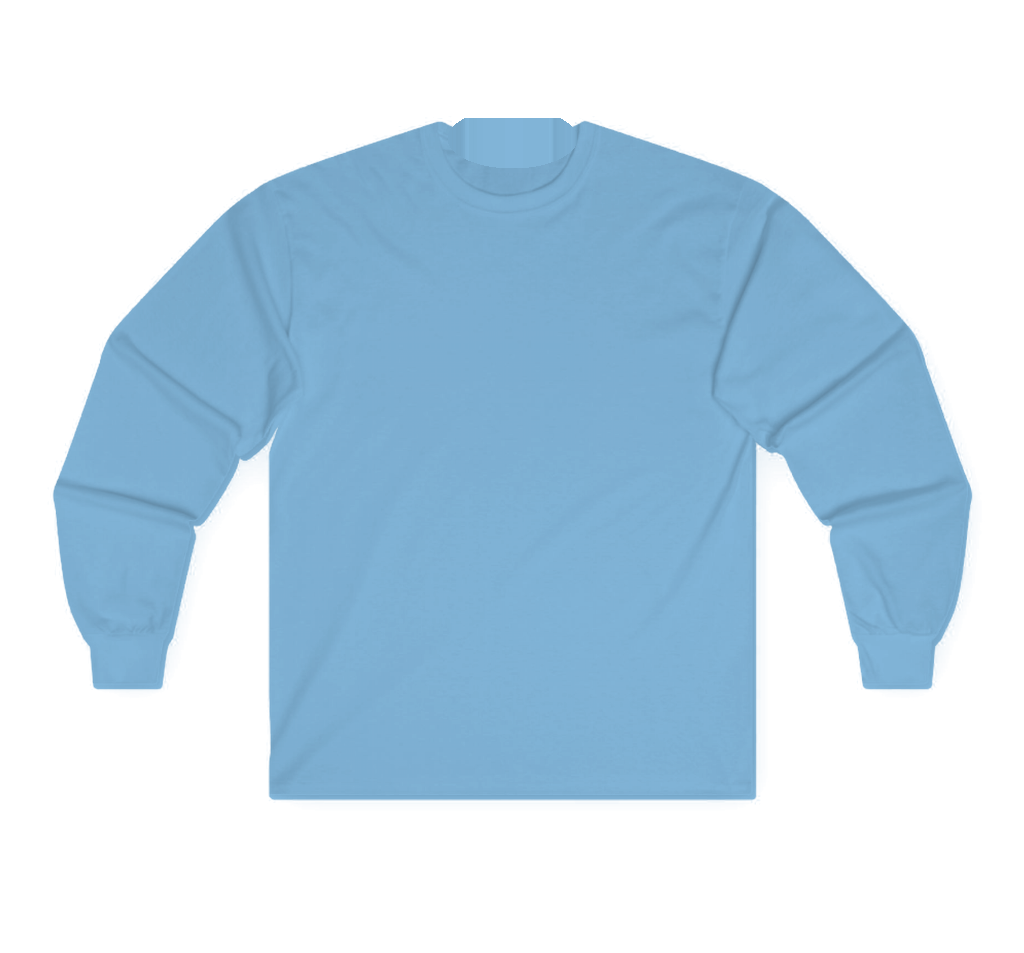
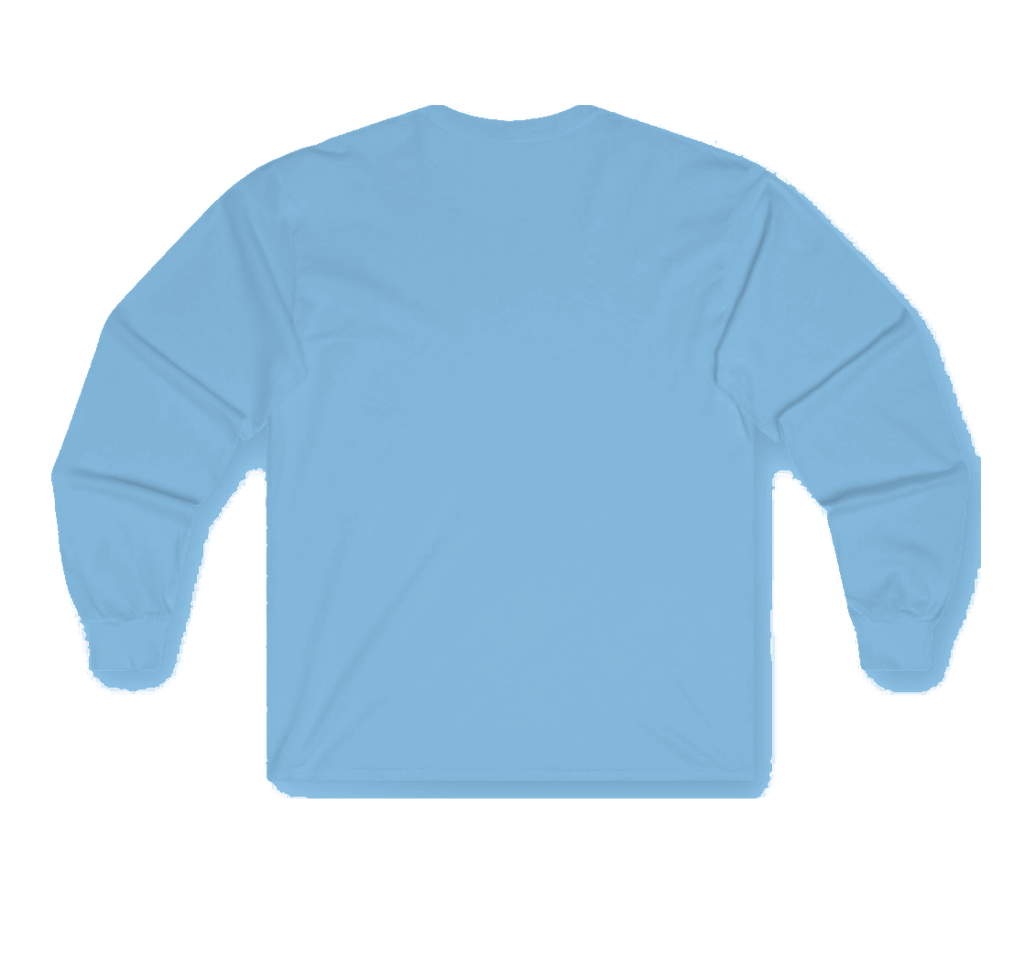
fix(mockups): resolve back collar masking artifact using photographic rear template and vector clipping

diff --git a/src/components/mockups/RealisticFlatLay.tsx b/src/components/mockups/RealisticFlatLay.tsx
@@ -649,6 +649,17 @@ export function RealisticLongSleeveFlatLay({
             <feBlend mode="multiply" in="SourceGraphic" in2="textureGrain" result="blended" />
             <feComposite in="blended" in2="SourceAlpha" operator="in" />
           </filter>
+
+          {/* Garment Body Clipping Mask: strictly bounds artwork within garment boundaries and prevents leaks above collar ribbing */}
+          <clipPath id={`ls-print-clip-${id}`}>
+            <rect
+              x={targetChest.x - 30}
+              y={isBack ? 165 : 175}
+              width={targetChest.width + 60}
+              height={targetChest.height + 70}
+              rx="12"
+            />
+          </clipPath>
         </defs>
 
         {/* Studio Floor Soft Contact Shadows */}
@@ -691,6 +702,7 @@ export function RealisticLongSleeveFlatLay({
         <g
           id="ls-artwork-stage"
           filter={`url(#ls-cotton-weave-${id})`}
+          clipPath={`url(#ls-print-clip-${id})`}
           style={{
             mixBlendMode: 'normal',
             filter: 'contrast(1.02) saturate(1.02)',

diff --git a/scripts/build_full_studio_palette.py b/scripts/build_full_studio_palette.py
@@ -140,29 +140,61 @@ for item in PALETTE:
     cv2.imwrite(out_path, rgba)
     print(f"Saved {out_path}")
 
-# 4. Generate Back Blanks (White Base + Full Studio Palette)
-print("Generating back blanks for full studio palette...")
-white_back_r = np.copy(white[:, :, 2]).astype(np.float32)
-white_back_g = np.copy(white[:, :, 1]).astype(np.float32)
-white_back_b = np.copy(white[:, :, 0]).astype(np.float32)
-white_back_a = np.copy(master_alpha).astype(np.float32)
+# 4. Generate Back Blanks from True Photographic Reference Image
+print("Generating back blanks from authentic photographic back reference...")
+back_source_path = 'scripts/source-longsleeve-back.png'
+if not os.path.exists(back_source_path):
+    back_source_path = 'C:/Users/Davea/.gemini/antigravity/brain/437b513a-73e0-4e4b-92bb-e5583cd97c04/.user_uploaded/media_1791821587066_48ab0d93.png'
 
-# Fill collar opening with rear neckline ribbing
-for y in range(118, 172):
-    for x in range(445, 580):
-        dx = (x - 512) / 65.0
-        dy = (y - 138) / 30.0
-        if dx*dx + dy*dy < 1.0:
-            white_back_r[y, x] = float(white[128, x, 2])
-            white_back_g[y, x] = float(white[128, x, 1])
-            white_back_b[y, x] = float(white[128, x, 0])
-            white_back_a[y, x] = 1.0
+im_back = cv2.imread(back_source_path)
+h_b, w_b = im_back.shape[:2]
 
-# Shading map for back blank
-white_back_gray = (0.299 * white_back_r + 0.587 * white_back_g + 0.114 * white_back_b) / 255.0
-p98_back = np.percentile(white_back_gray[white_back_a > 0.5], 98)
-S_back = np.clip(white_back_gray / p98_back, 0.0, 1.25)
-S_back = np.power(S_back, 1.05)
+# 4.1 Extract mathematically pristine sub-pixel alpha mask from authentic back photograph
+diff_b = np.max(255 - im_back.astype(np.int32), axis=2).astype(np.float32)
+# Smoothstep curve between background edge (diff 3.0) and solid fabric (diff 8.5)
+t_b = np.clip((diff_b - 3.0) / 5.5, 0.0, 1.0)
+alpha_b_raw = t_b * t_b * (3.0 - 2.0 * t_b)
+
+# Solid core for interior fabric
+core_b = (diff_b >= 6.0).astype(np.uint8)
+kernel_b = cv2.getStructuringElement(cv2.MORPH_ELLIPSE, (7, 7))
+core_b_filled = cv2.morphologyEx(core_b, cv2.MORPH_CLOSE, kernel_b)
+contours_b, _ = cv2.findContours(core_b_filled, cv2.RETR_EXTERNAL, cv2.CHAIN_APPROX_SIMPLE)
+solid_b_mask = np.zeros_like(core_b_filled)
+cv2.drawContours(solid_b_mask, contours_b, -1, 1, thickness=cv2.FILLED)
+
+alpha_b_combined = np.where(solid_b_mask > 0, np.maximum(alpha_b_raw, 0.98), alpha_b_raw)
+alpha_b_combined[:35, :] = 0.0
+alpha_b_combined[798:, :] = 0.0
+
+# 4.2 Scale & Align to master 953 x 1024 studio canvas (matching front garment 929px width)
+scale_b = 929.0 / 1014.0
+scaled_w_b = int(round(w_b * scale_b))
+scaled_h_b = int(round(h_b * scale_b))
+
+im_b_scaled = cv2.resize(im_back, (scaled_w_b, scaled_h_b), interpolation=cv2.INTER_LANCZOS4)
+alpha_b_scaled = cv2.resize(alpha_b_combined, (scaled_w_b, scaled_h_b), interpolation=cv2.INTER_LANCZOS4)
+
+master_back_rgb = np.full((h_w, w_w, 3), 255, dtype=np.uint8)
+master_back_alpha = np.zeros((h_w, w_w), dtype=np.float32)
+
+offset_x_b = (w_w - scaled_w_b) // 2
+collar_y_in_scaled = int(round(56.0 * scale_b))
+offset_y_b = 118 - collar_y_in_scaled # Back collar sits naturally flush at y=118
+
+master_back_rgb[offset_y_b:offset_y_b+scaled_h_b, offset_x_b:offset_x_b+scaled_w_b] = im_b_scaled
+master_back_alpha[offset_y_b:offset_y_b+scaled_h_b, offset_x_b:offset_x_b+scaled_w_b] = alpha_b_scaled
+
+master_back_alpha[master_back_alpha < 0.015] = 0.0
+master_back_alpha[:, :35] = 0.0
+master_back_alpha[:, 985:] = 0.0
+master_back_alpha[:105, :] = 0.0
+master_back_alpha[815:, :] = 0.0
+master_back_alpha = cv2.GaussianBlur(master_back_alpha, (3, 3), 0.4)
+
+# 4.3 Authentic Shading Map from Photographic Back View
+white_back_gray = cv2.cvtColor(master_back_rgb, cv2.COLOR_BGR2GRAY).astype(np.float32) / 255.0
+S_back = np.clip(white_back_gray / 0.94, 0.04, 1.20)
 
 for item in PALETTE:
     back_name = item['name'].replace('longsleeve-flatlay-', 'longsleeve-flatlay-back-')
@@ -190,27 +222,29 @@ for item in PALETTE:
         b_out += sheen
 
     if item['hex'] == '#FFFFFF':
-        r_final = np.uint8(np.clip(white_back_r, 0, 255))
-        g_final = np.uint8(np.clip(white_back_g, 0, 255))
-        b_final = np.uint8(np.clip(white_back_b, 0, 255))
+        # Pure white shirt: preserve authentic photographic original
+        r_final = np.uint8(np.clip(master_back_rgb[:, :, 2], 0, 255))
+        g_final = np.uint8(np.clip(master_back_rgb[:, :, 1], 0, 255))
+        b_final = np.uint8(np.clip(master_back_rgb[:, :, 0], 0, 255))
     else:
         r_final = np.uint8(np.clip(r_out * 255.0, 0, 255))
         g_final = np.uint8(np.clip(g_out * 255.0, 0, 255))
         b_final = np.uint8(np.clip(b_out * 255.0, 0, 255))
 
-    a_final = np.uint8(np.clip(white_back_a * 255.0, 0, 255))
+    a_final = np.uint8(np.clip(master_back_alpha * 255.0, 0, 255))
     rgba = cv2.merge([b_final, g_final, r_final, a_final])
     out_path = os.path.join(out_dir, back_name)
     cv2.imwrite(out_path, rgba)
 
 # Default fallback white back blank
 default_back = cv2.merge([
-    np.uint8(np.clip(white_back_b, 0, 255)),
-    np.uint8(np.clip(white_back_g, 0, 255)),
-    np.uint8(np.clip(white_back_r, 0, 255)),
-    np.uint8(np.clip(white_back_a * 255.0, 0, 255))
+    np.uint8(np.clip(master_back_rgb[:, :, 0], 0, 255)),
+    np.uint8(np.clip(master_back_rgb[:, :, 1], 0, 255)),
+    np.uint8(np.clip(master_back_rgb[:, :, 2], 0, 255)),
+    np.uint8(np.clip(master_back_alpha * 255.0, 0, 255))
 ])
 cv2.imwrite(os.path.join(out_dir, 'longsleeve-flatlay-back.png'), default_back)
 print("Saved public/mockups/longsleeve-flatlay-back.png and all colorway back blanks!")
 print("Full Studio Palette (Front & Back) rendered successfully!")
+
 
